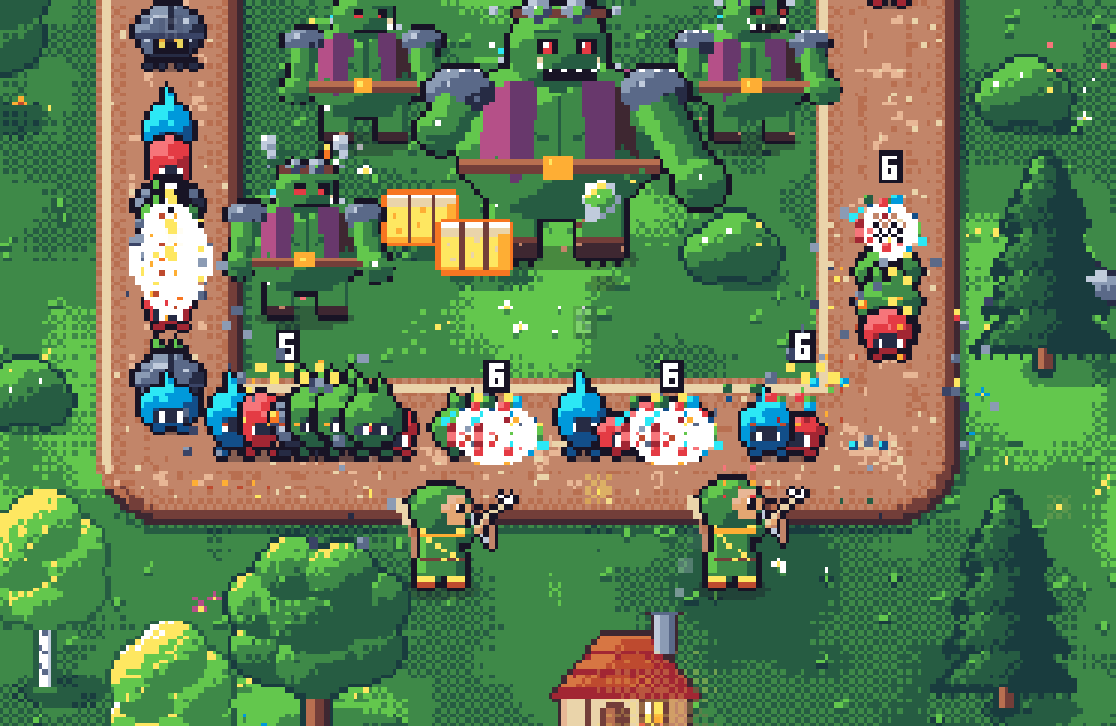
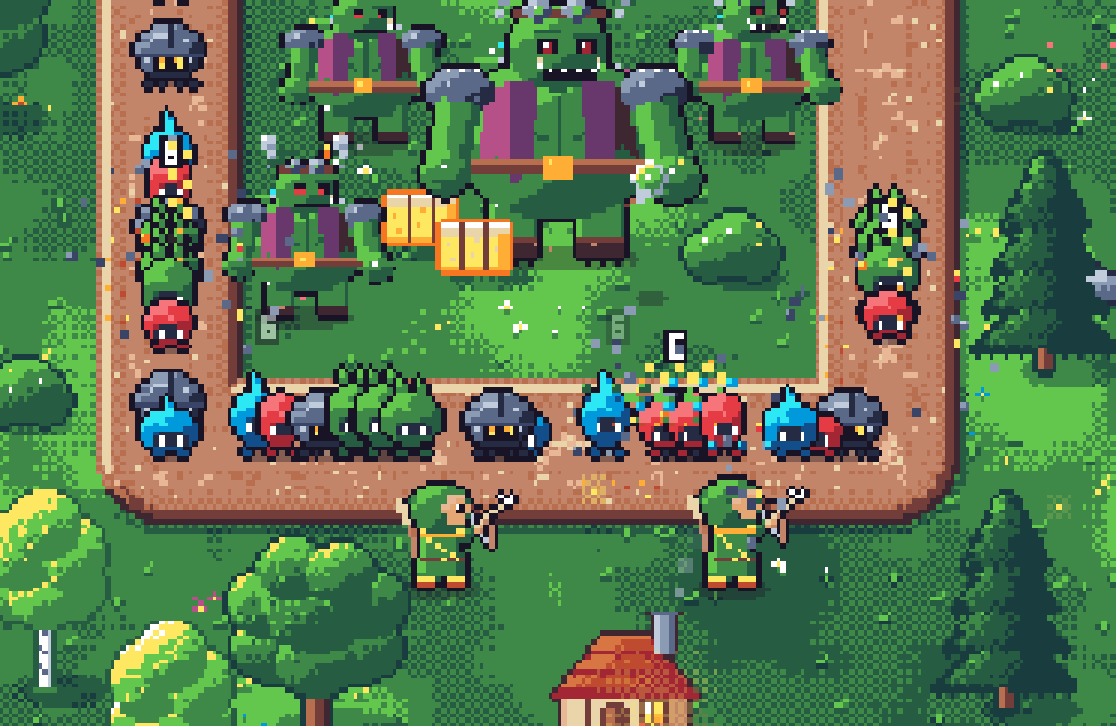
Runde 14 C: Client-Einbau Thornweaver und Alchemist, Wissensbaum gross (40 Knoten, scrollbar), Turm-Leiste 7 Tuerme + Wren, Toene, Tests, Smoke, Bilder

diff --git a/client/src/match/match.css b/client/src/match/match.css
@@ -374,7 +374,12 @@ kbd { font: 700 10px var(--font-num); background: var(--ink); color: var(--silve
   .m-cards .m-card-n { font-size: 13px; letter-spacing: 0; white-space: nowrap; overflow: hidden; text-overflow: ellipsis; }
   .m-cards .m-card-p { justify-content: center; font-size: 15px; }
   .m-cards .m-key { position: absolute; top: 3px; right: 3px; }
-  .m-cards .m-lock { font-size: 10px; line-height: 1.1; padding: 2px; }
+  .m-cards .m-lock { font-size: 11px; line-height: 1.1; padding: 2px; }
   .m-cards .m-lock .px-ic { display: none; }
 }
 .ps-stage.buffed .ps-fig { transform: translateX(-62px); }
+
+/* gesperrte Karten: Figur und Text grau, der Hinweis "Unlocks at level N" bleibt gut lesbar */
+.m-card.locked { filter: none; }
+.m-card.locked .m-port, .m-card.locked .m-card-t, .m-card.locked .m-key { filter: grayscale(.9) brightness(.7); }
+.m-lock { background: rgba(24, 20, 37, .5); color: #fff; font-weight: 800; text-shadow: 1px 1px 0 #181425; }

diff --git a/client/src/match/renderer.ts b/client/src/match/renderer.ts
@@ -553,7 +553,7 @@ export class Renderer {
     v.spr.position.set(x - s.ax, y - s.ay + (e.type === 'leviathan' ? Math.round(Math.sin(this.now / 400) * 2) - 8 : 0));
     v.spr.zIndex = y + (e.type === 'leviathan' ? 40 : 0);
     v.spr.alpha = camo ? 0.55 + 0.2 * Math.sin(this.now / 90 + e.id) : 1;
-    v.spr.tint = e.frozenTicks > 0 ? hex(C.ice) : e.vineTicks > 0 ? hex(C.leaf) : e.stunTicks > 0 ? hex(C.yellow) : e.goldTicks > 0 ? hex(C.sand) : e.slowBp > 0 && e.slowTicks > 0 ? hex(C.silver) : 0xffffff;
+    v.spr.tint = e.frozenTicks > 0 ? hex(C.ice) : e.vineTicks > 0 ? 0xffffff : e.stunTicks > 0 ? hex(C.yellow) : e.goldTicks > 0 ? hex(C.sand) : e.slowBp > 0 && e.slowTicks > 0 ? hex(C.silver) : 0xffffff;
     if (this.latest && this.latest.warpLeft > 0) {
       if (!v.bub) { v.bub = new Sprite(); this.fxHost.addChild(v.bub); }
       const bs = bubbleSprite(Math.floor(this.now / 200) + e.id, e.type === 'leviathan' ? 22 : e.type === 'brute' ? 11 : 8);

diff --git a/client/src/screens/towers.ts b/client/src/screens/towers.ts
@@ -74,7 +74,9 @@ export function towersView(ctx: Ctx, tower?: TowerType): View {
   let hoverLabel: string | null = null;
   const draw = (): void => {
     const f = TOWER_FRAMES[frame % 4];
-    blit(art, towerSprite(t, shown, FACING, f), 5);
+    const sp = towerSprite(t, shown, FACING, f);
+    // grosse Stufen (Avatar, World Tree) sind breiter als 55 px: Massstab so waehlen, dass die Figur in die Buehne (300 x 250 ueber dem Boden) passt
+    blit(art, sp, Math.max(2, Math.min(5, Math.floor(296 / sp.canvas.width), Math.floor(250 / sp.canvas.height))));
     tierLine.textContent = hoverLabel ?? S.towers.best;
   };
   draw();

diff --git a/docs/STATUS.md b/docs/STATUS.md
@@ -6,6 +6,16 @@ Frühere Aufträge: [archiv/run-runde1.md](archiv/run-runde1.md), [archiv/run-ru
 
 **Runde 13 C (Client-Einbau, 09.10.2026):** Turm-Leiste mit fuenf Tuermen (T = Longshot, Z = Market, B = Withdraw), Market im Match (Aura-Ring statt Schussring, Faehnchen an Tuermen in der Aura, Muenzflug zur Geldanzeige, Bank mit Withdraw im Panel), Longshot (kein Ring, Muendungsblitz/Rueckstoss, Ricochet, Boss-Markierung, Focus/Supply Drop/Grant mit Icons), Wissensbaum fuer 28 Knoten in 5 Aesten (`screens/knowledge-layout.ts`), Projektile starten am Muendungspunkt, Menue ohne Musik, AudioContext ab dem ersten Klick, Mix Effekte x0,7 / Musik x0,8. Tests `client/test/r13-match.test.ts`, Bilder `client/docs/r13/c-*.png`, Skript `client/scripts/shots-r13-c.mjs`.
 
+**Runde 14 C (Client-Einbau, 09.10.2026):** Thornweaver und Alchemist im Match und in den Menues.
+- **Turm-Leiste:** sieben Tuerme + Wren als Kacheln in zwei Spalten bei <= 860 px Hoehe (1280 x 720 ohne Scrollen); D = Thornweaver, A = Alchemist, **Auto-Start jetzt auf G** (A war belegt). Gesperrt: "Unlocks at level 7/9".
+- **Darstellung** (`match/renderer.ts`, `match/r14.ts`): Dornen/Traenke als Projektile (Trank im Bogen mit Schatten), Blitzboegen aus der Wolke (`chain` des Thornweavers), Wirbelwind, Ranken-Fessel am Gegner (solange `vineTicks`), Baumwand aus `state.walls` mit Wachstum und vier Abnutzungsstufen, Ranken-/Weltenbaum-Zone dauerhaft unter dem Turm (`TowerState.zone`), Saeurespritzer/-Markierung, Pfuetzen aus `state.puddles`, Buff-Glanz am Turm (`Game.buffOf`: brew/stimulant/permanent), Monster-Form (Verwandlung, voller Alchemist, 0,6 fuer Total Transformation), Schrumpfen, Lead-/Rubber-Gold, Bounty-Zahlen, Heart bei `heal`, Gate-Effekt am Tor. Panel zeigt aktive Buffs ("Potion and blessing"), Monster-Restzeit.
+- **Wall of Trees / Tonic:** Die Sim setzt die Wand selbst (Faehigkeit ohne Zielpunkt, `no-target` ohne Weg in Reichweite); der Knopf in der Faehigkeiten-Leiste genuegt, keine Zielvorschau noetig.
+- **Toene:** `audio/recipes-r14.ts`, `audio/r14-map.ts`; Schuesse laufen ueber `tower-vol` (leise bei Stufe 0-2, Mindestabstand), Zone nur bei Treffern.
+- **Wissensbaum:** 40 Knoten, Knoten 120 x 108 (vorher 96 x 76), Schrift 16 px, Kosten 22 px, **Aeste brechen in zwei Zeilen um** (`knowledge-layout.ts`, `maxW`), Seite scrollt senkrecht (nie waagerecht), Kopfleiste klebt oben, Scrollstand bleibt nach einem Kauf, Legende in der freien Ecke, zwoelf neue Icons (`leaf`, `flask`, `shield`, `cross` neu).
+- **Menues:** Namen/Pfade der neuen Tuerme (Storm/Wild/Grove, Brews/Unstable/Gold), Startseite mit acht Karten, Turm-Detail mit sieben Reitern (umbrechend) und angepasstem Massstab fuer grosse Stufen; Freischalt-Karten L7/L9 im Ergebnis kommen aus `meta` (`LEVEL_UNLOCKS`).
+- **Pruefhilfe:** `?level=N` (mit `?debug`/`?hooks`) setzt das Spieler-Level.
+- Tests `client/test/r14-match.test.ts`, `r14-knowledge.test.ts` (+ `r13-match` angepasst), Smoke Runde 14 (`scripts/smoke.mjs`), Bilder `client/docs/r14/c-*.png`, Skript `client/scripts/shots-r14-c.mjs`.
+
 ## Runde 13 (Lantern Market, Longshot, Wissensbaum 28 Knoten, Figuren ohne Plattform) — abgeschlossen 09.10.2026
 
 | Paket | Agent | Was man sieht |
